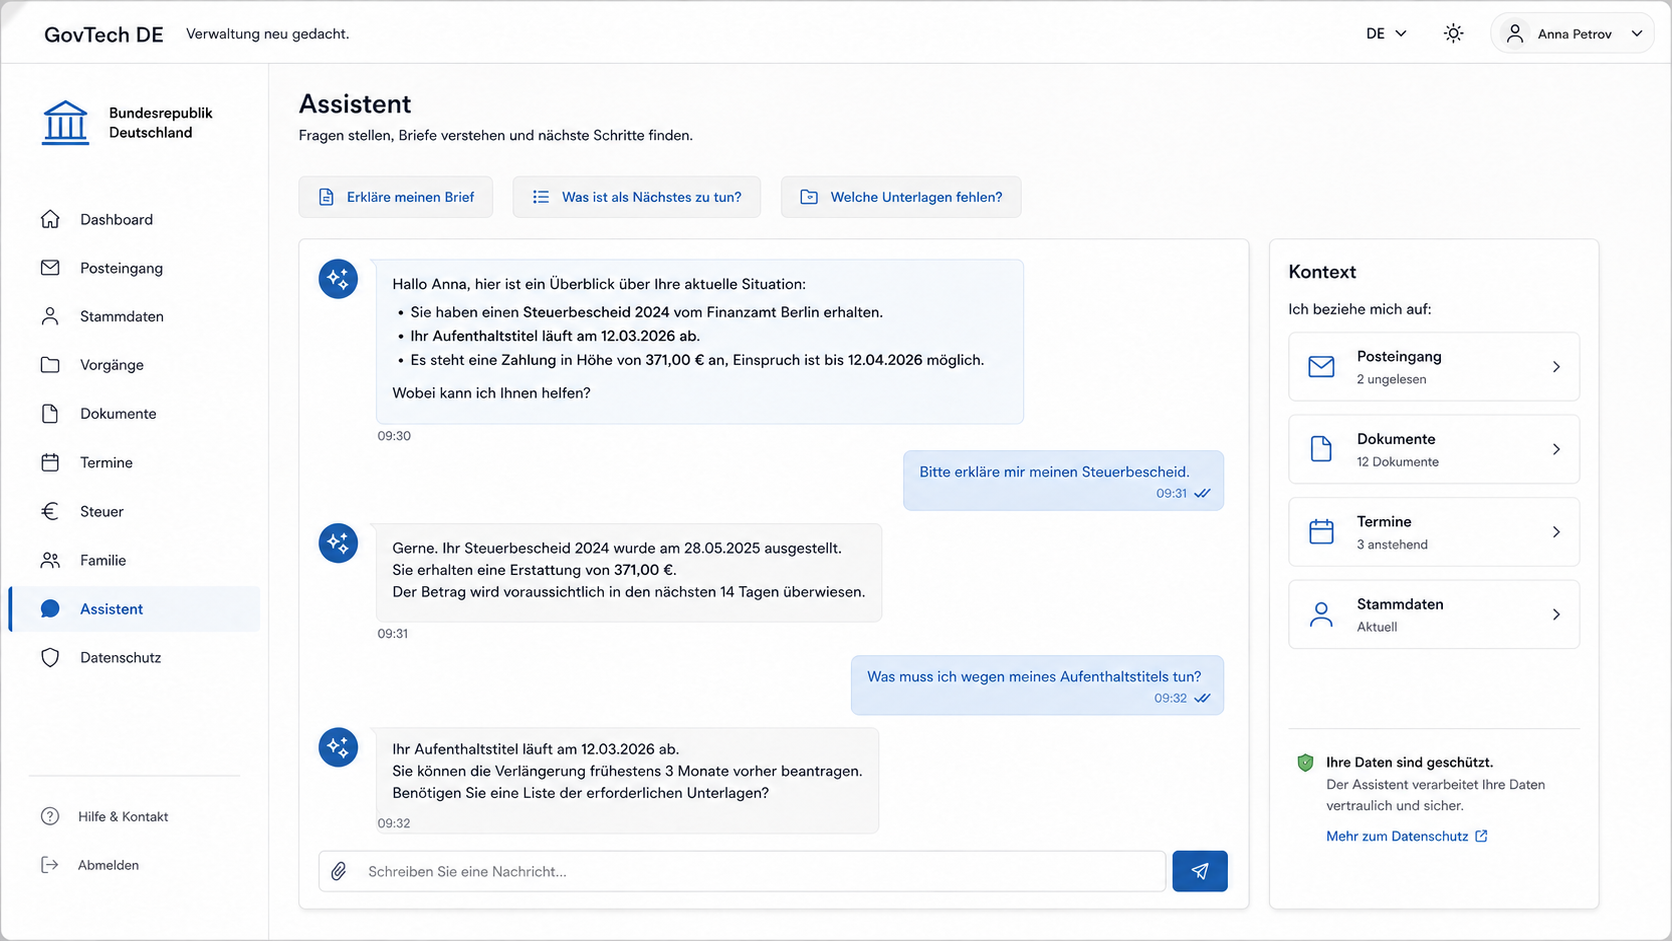
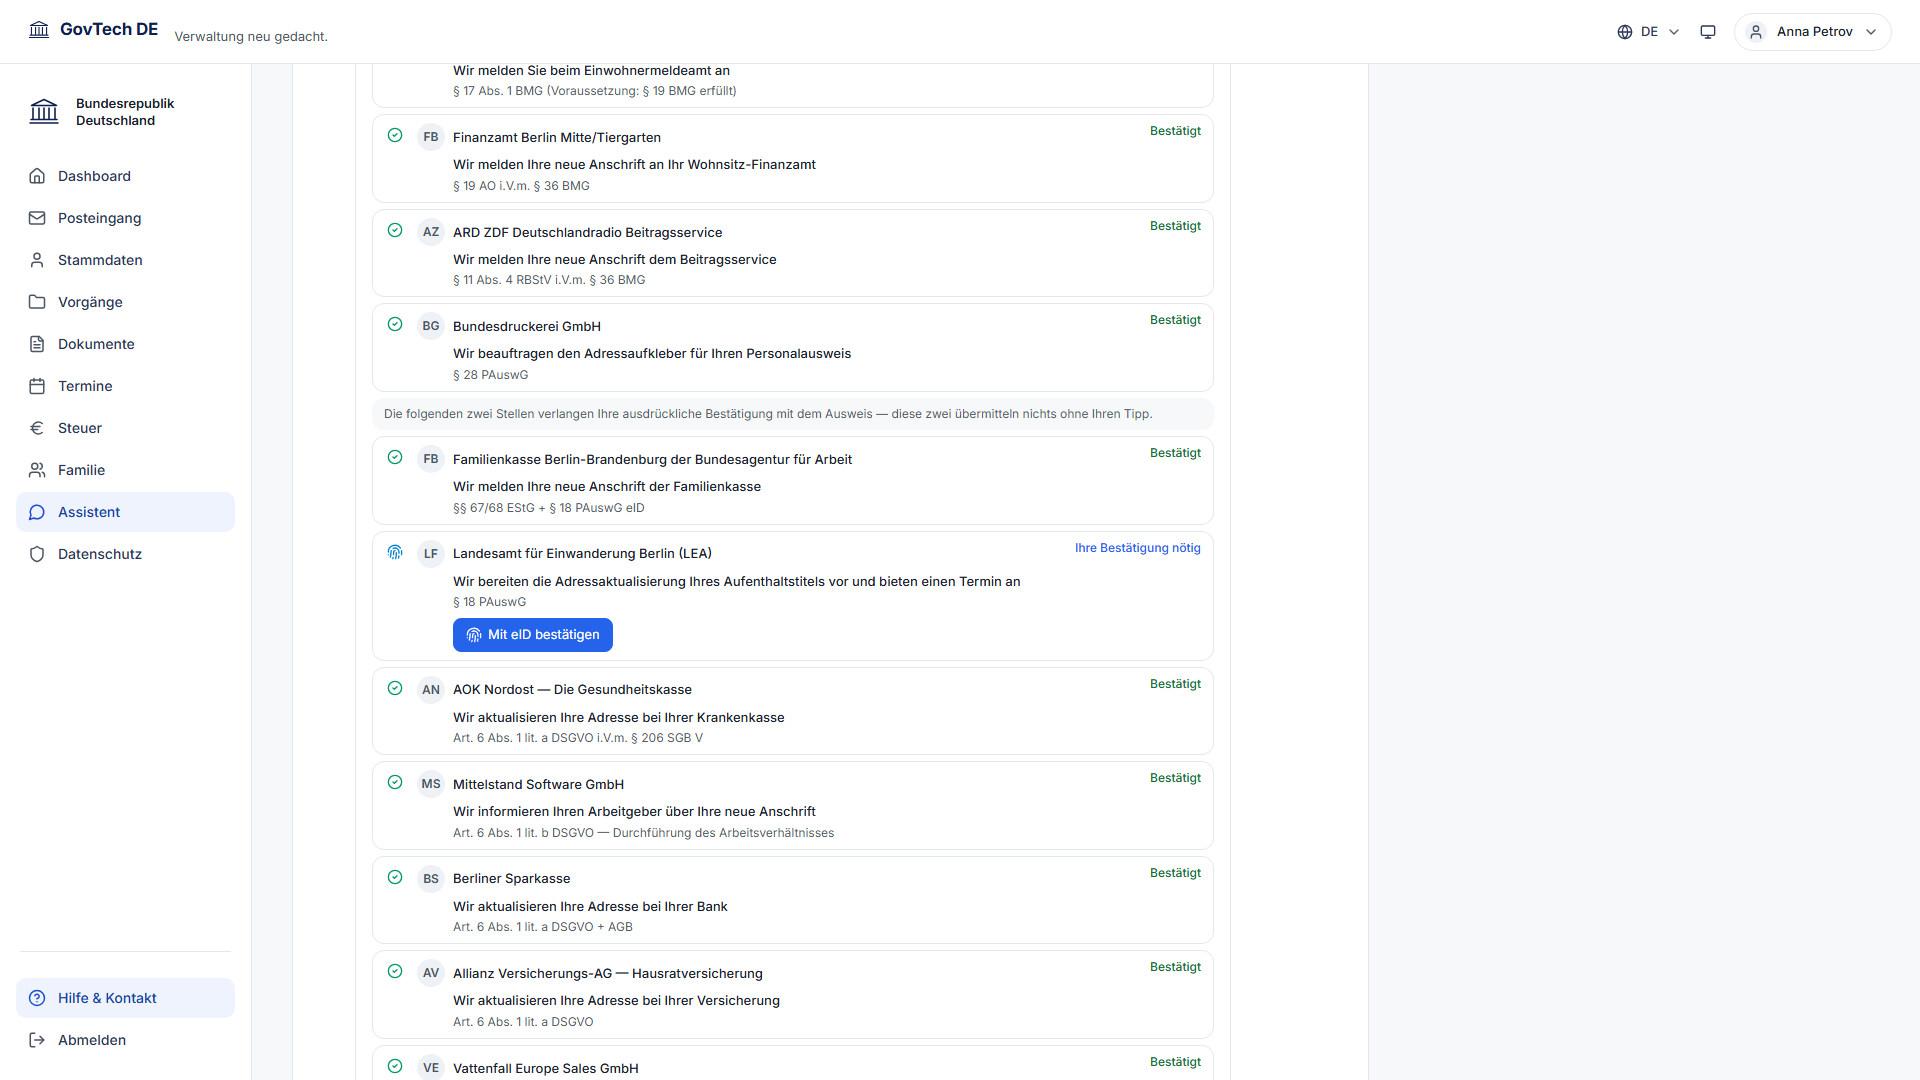
docs(readme): hero screenshot shows the inline cascade mid-eID-gate + DEMO_SHOT still-capture

diff --git a/tests/demo/spine-demo.spec.ts b/tests/demo/spine-demo.spec.ts
@@ -64,6 +64,25 @@ async function glide(
   cursor = { x, y };
 }
 
+/**
+ * README still-frame capture — only when DEMO_SHOT=1 (e.g.
+ * `$env:DEMO_SHOT='1'; npm run demo:record`). Hides the injected cursor for
+ * the frame, writes demo-recording/still-<name>.png, restores the cursor.
+ * A no-op in normal video takes.
+ */
+async function still(page: Page, name: string): Promise<void> {
+  if (!process.env.DEMO_SHOT) return;
+  await page.evaluate(() => {
+    const c = document.getElementById('__demo_cursor');
+    if (c) c.style.display = 'none';
+  });
+  await page.screenshot({ path: `demo-recording/still-${name}.png` });
+  await page.evaluate(() => {
+    const c = document.getElementById('__demo_cursor');
+    if (c) c.style.display = '';
+  });
+}
+
 /** Smooth-scroll a target to centre, then glide the cursor onto it. */
 async function focusOn(page: Page, locator: Locator): Promise<void> {
   await locator.scrollIntoViewIfNeeded().catch(() => {});
@@ -288,6 +307,7 @@ test('DEMO - Umzug-Autopilot walkthrough (Anna)', async ({ page }) => {
   await clickAt(page, eidButtons.first());
   await expect(eidButtons).toHaveCount(1, { timeout: 20_000 });
   await beat(page, 2400);
+  await still(page, 'cascade-eid'); // README frame: Block A bestätigt, 1× eID offen
   await clickAt(page, eidButtons.first());
   await expect(eidButtons).toHaveCount(0, { timeout: 20_000 });
   await beat(page, 2200);
@@ -300,6 +320,7 @@ test('DEMO - Umzug-Autopilot walkthrough (Anna)', async ({ page }) => {
   ).toBeVisible({ timeout: 30_000 });
   await focusOn(page, receipt);
   await beat(page, 5200); // den Payoff wirken lassen
+  await still(page, 'cascade-receipt'); // README frame: Wert-Beleg + Once-Only
 
   /* ── Szene 8 — Posteingang: die Bestätigungsschreiben sind eingetroffen ─── */
   await page.goto('/posteingang?reliable=1', { waitUntil: 'domcontentloaded' });